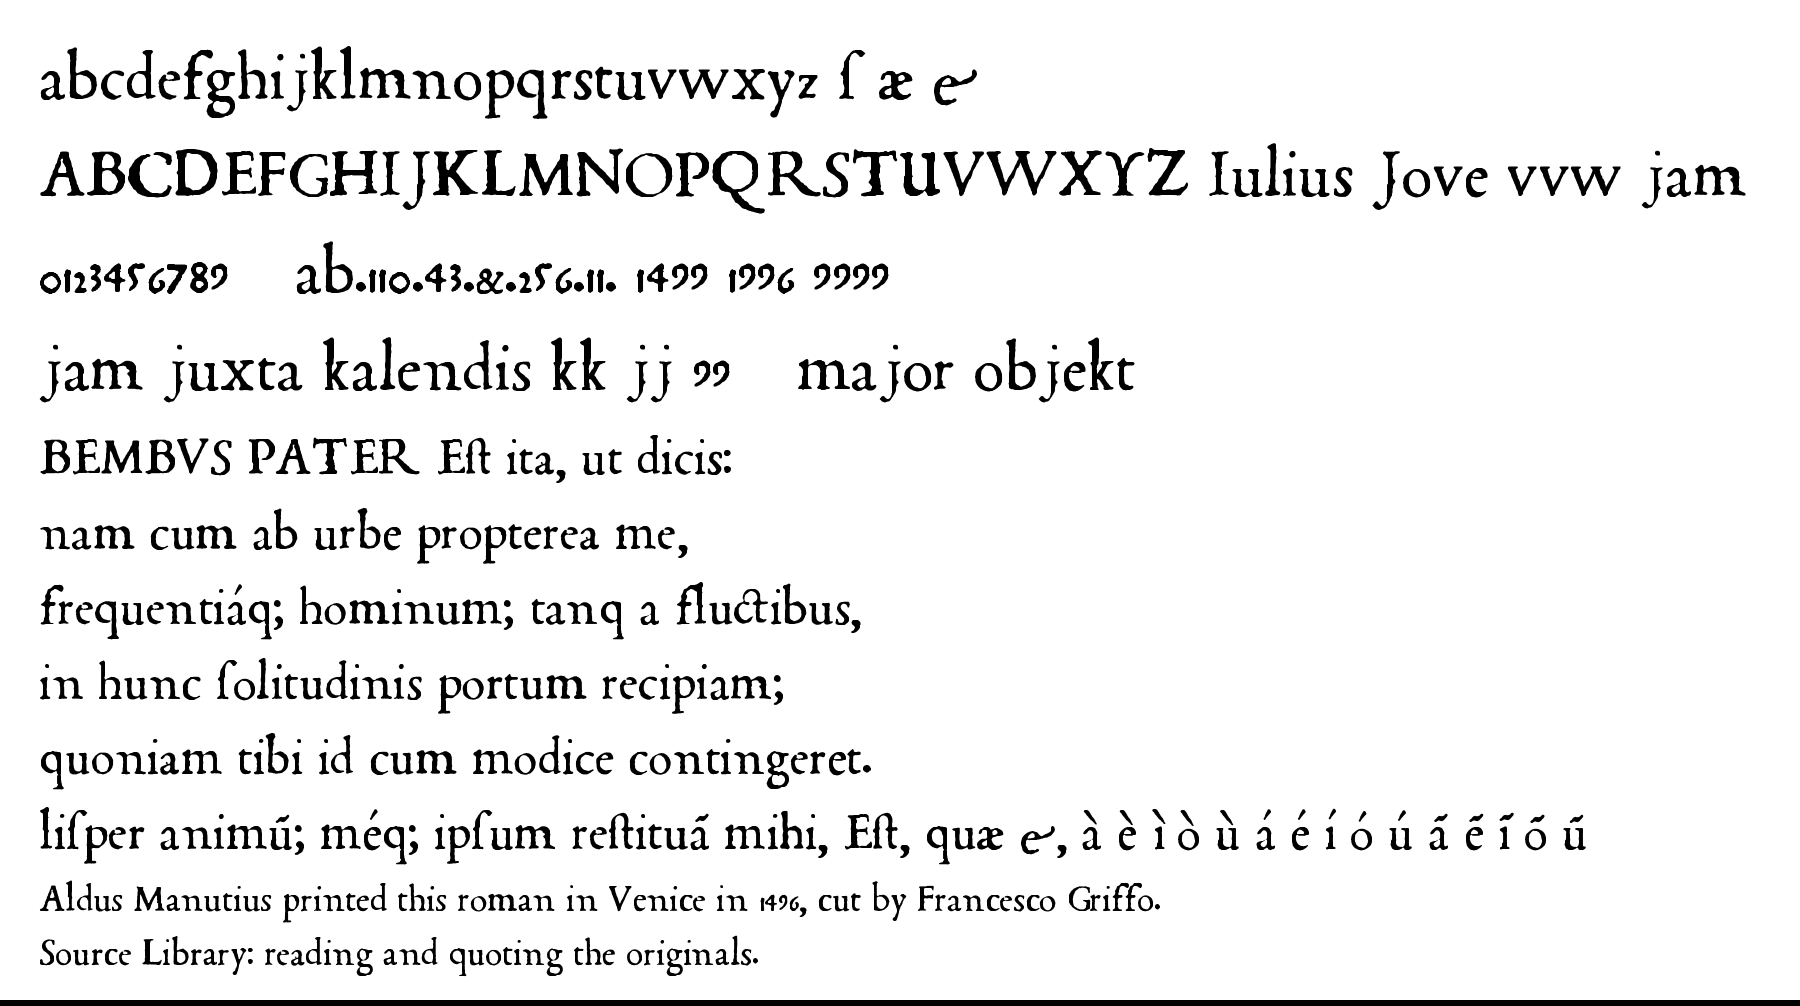
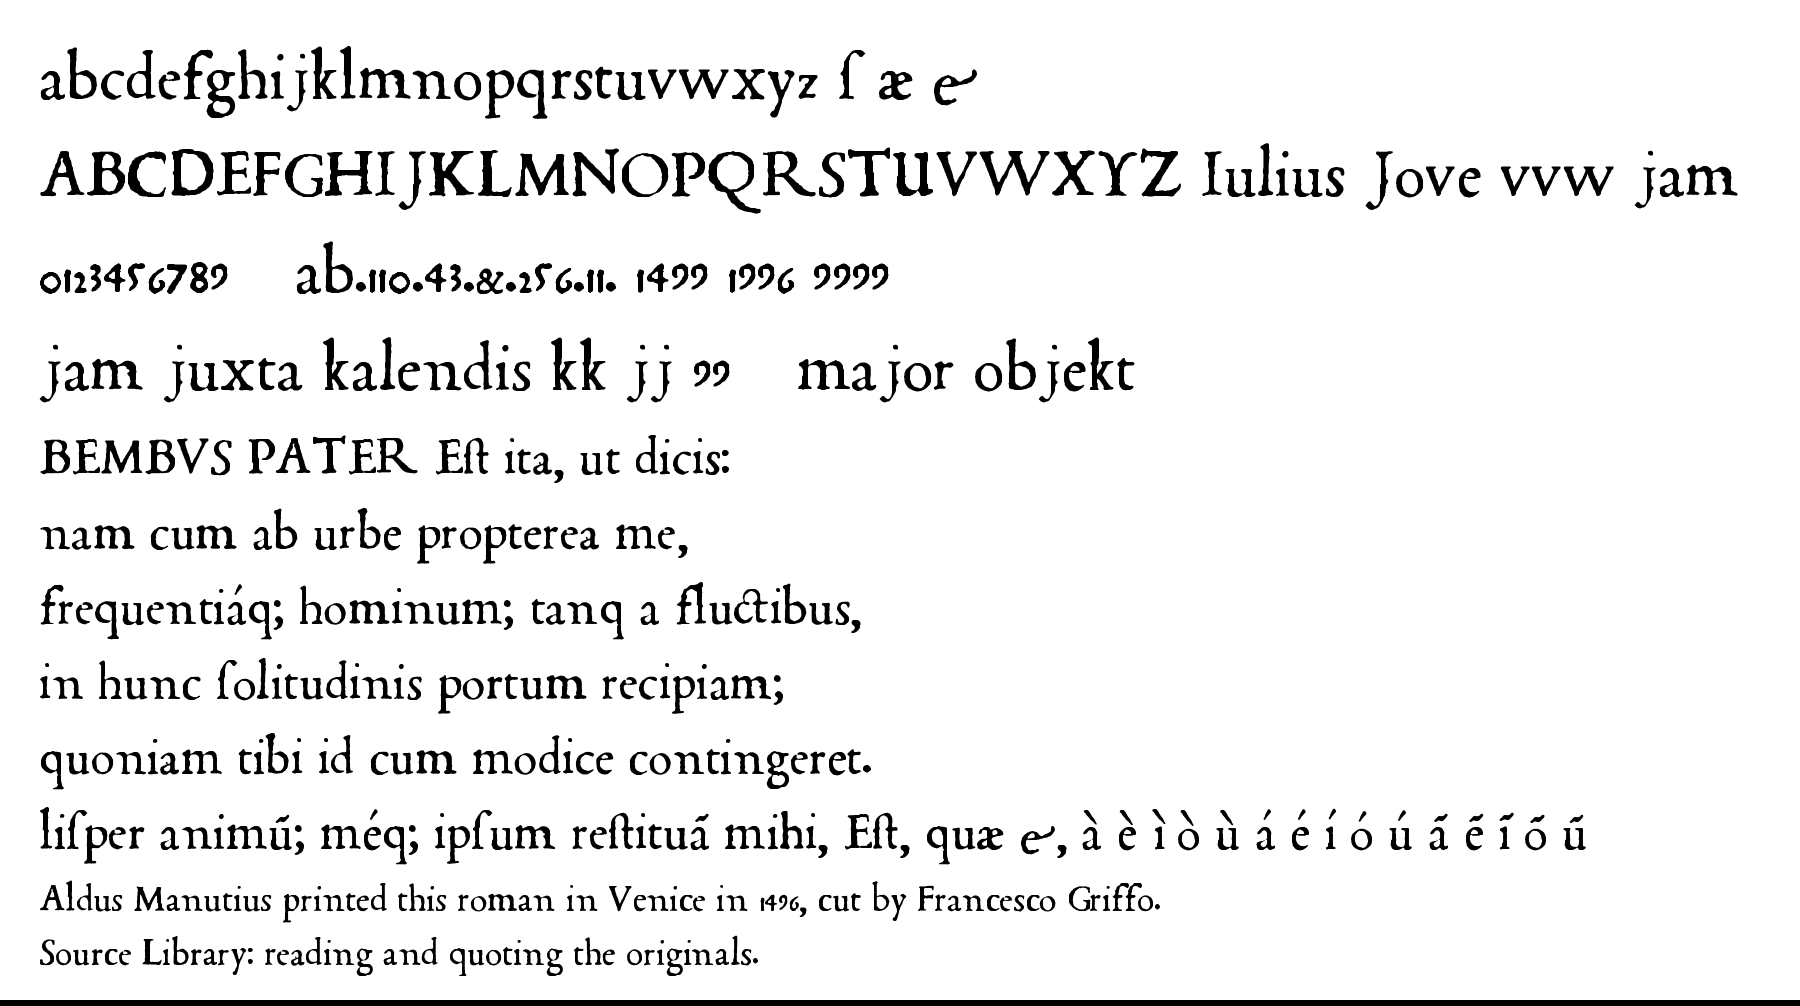
feat(fonts): Aldine Aetna v0.9 — cleaner C and T impressions
Derek: C and T messiness. Both were single over-inked casts (307 'Cerere',
77 'Tauro'). Listed every C and T across the sets in context and picked
C = Lascaris z#6526 ('Clamatu', eroded 1px like the K - that copy is inked
harder) and T = 386 ('Tellus', stray speck stripped). STRIP_SATELLITES now
re-crops to the kept component's box; before, the anchoring stood the letter
on the stripped speck's row.

Changed region(s): [[0.0622, 0.1233, 0.9644, 0.2157], [0.1556, 0.4314, 0.4044, 0.493]]

diff --git a/scripts/fonts/aldine-aetna/build_font.py b/scripts/fonts/aldine-aetna/build_font.py
@@ -115,7 +115,7 @@ glyphs, advances, cmap = {}, {}, {}
 pen = TTGlyphPen(None); glyphs['.notdef'] = pen.glyph(); advances['.notdef'] = int(XH * S)
 pen = TTGlyphPen(None); glyphs['space'] = pen.glyph(); advances['space'] = int(GAP * S * 2.2 + XH * S * 0.4); cmap[0x20] = 'space'
 
-STRIP_SATELLITES = {'&', '(', ')', 'D'}
+STRIP_SATELLITES = {'&', '(', ')', 'D', 'T', 'C'}
 CAPS_ON_BASELINE = set('ABCDEFGHIKLMNOPRSTVXYZ')
 CAP_PX, ASC_PX = 104.0, 113.0                      # measured on the main set (C/H/A; l)
 ROUND_BOTTOM = set('CGOQSUJcoesuagq0369') | {'Q_u', 'ae', 'æ', 'ę', '&'}
@@ -124,7 +124,7 @@ TOP_ANCHOR = {'Q': CAP_PX, 'Q_u': CAP_PX, 'g': 67.0, 'p': 67.0, 'q': 67.0, 'y': 
               '3': 67.0, '4': 67.0, '5': 67.0, '7': 67.0, '9': 67.0, ';': 67.0, 'J': CAP_PX}
 LINE_ANCHOR = {',', '(', ')', '-', '.', ':', '?', 'ı'}   # keep the measured line baseline
 RECONSTRUCT = True
-ERODE = {'K': 1}            # over-inked impressions: erode N px before tracing
+ERODE = {'K': 1, 'C': 1}            # over-inked impressions: erode N px before tracing
 ALT_LETTERS = 'aceimnorstudlhpgbfq'   # letters that get 2 extra impressions rotated by calt
 ACCENT_SOURCES = {'acute': 114, 'grave': 163, 'tilde': 215}      # á è ã impressions from the main set
 COMPOSITES = {'á': ('a','acute'), 'é': ('e','acute'), 'í': ('i','acute'), 'ó': ('o','acute'), 'ú': ('u','acute'),
@@ -149,6 +149,7 @@ for ch, cl in labels.items():
         lab, n = _nd.label(mask)
         if n > 1:
             sizes = _nd.sum(mask, lab, range(1, n + 1)); mask = (lab == (1 + int(np.argmax(sizes)))).astype(np.uint8)
+            ys, xs = np.where(mask); mask = mask[ys.min():ys.max() + 1, xs.min():xs.max() + 1]   # re-crop: anchoring uses the box
     svgtxt, (tx, ty, sx, sy), pad = trace(mask)
     # svg user coords -> pixel (of upscaled canvas): px = X*sx + tx ; py = Y*sy + ty   (sy negative)
     # pixel (canvas) -> original pixel: /UPSCALE, minus pad

diff --git a/scripts/fonts/aldine-aetna/README.md b/scripts/fonts/aldine-aetna/README.md
@@ -56,7 +56,7 @@ ink width set them a whole gap too wide ("f luctibus").
    (no shaping engine, so ligatures don't fire there; they do in browsers).
    woff2: `TTFont(...).flavor='woff2'; save()`.
 
-## Coverage (v0.8)
+## Coverage (v0.9)
 
 136 glyphs: a–y minus j k v w z (Aldus sets u for v), ſ, æ, &, the ligatures
 ę, fifteen accented vowels (á é í ó ú à è ì ò ù ã ẽ ĩ õ ũ — **composed**: the acute,
@@ -120,3 +120,9 @@ inputs — it renumbers the clusters `labels.json` points at.
 
 Data files (`*.jpg`, `*.npz`, `*clusters.json`, sheets) are scratch and not
 committed; `labels.json` plus the IA identifiers reproduce them.
+
+**Picking impressions (v0.9):** the C and T Derek called messy were single over-inked casts
+(`307` "Cerere", `77` "Tauro"). `context.py` across all sets found cleaner ones — C = Lascaris
+`z#6526` ("Clamatu"), T = `386` ("Tellus", speck stripped). When a capital looks rough, list every
+impression in context before touching the tracer. `STRIP_SATELLITES` now re-crops to the kept
+component's box, otherwise the anchoring stands the letter on the stripped speck's row.
